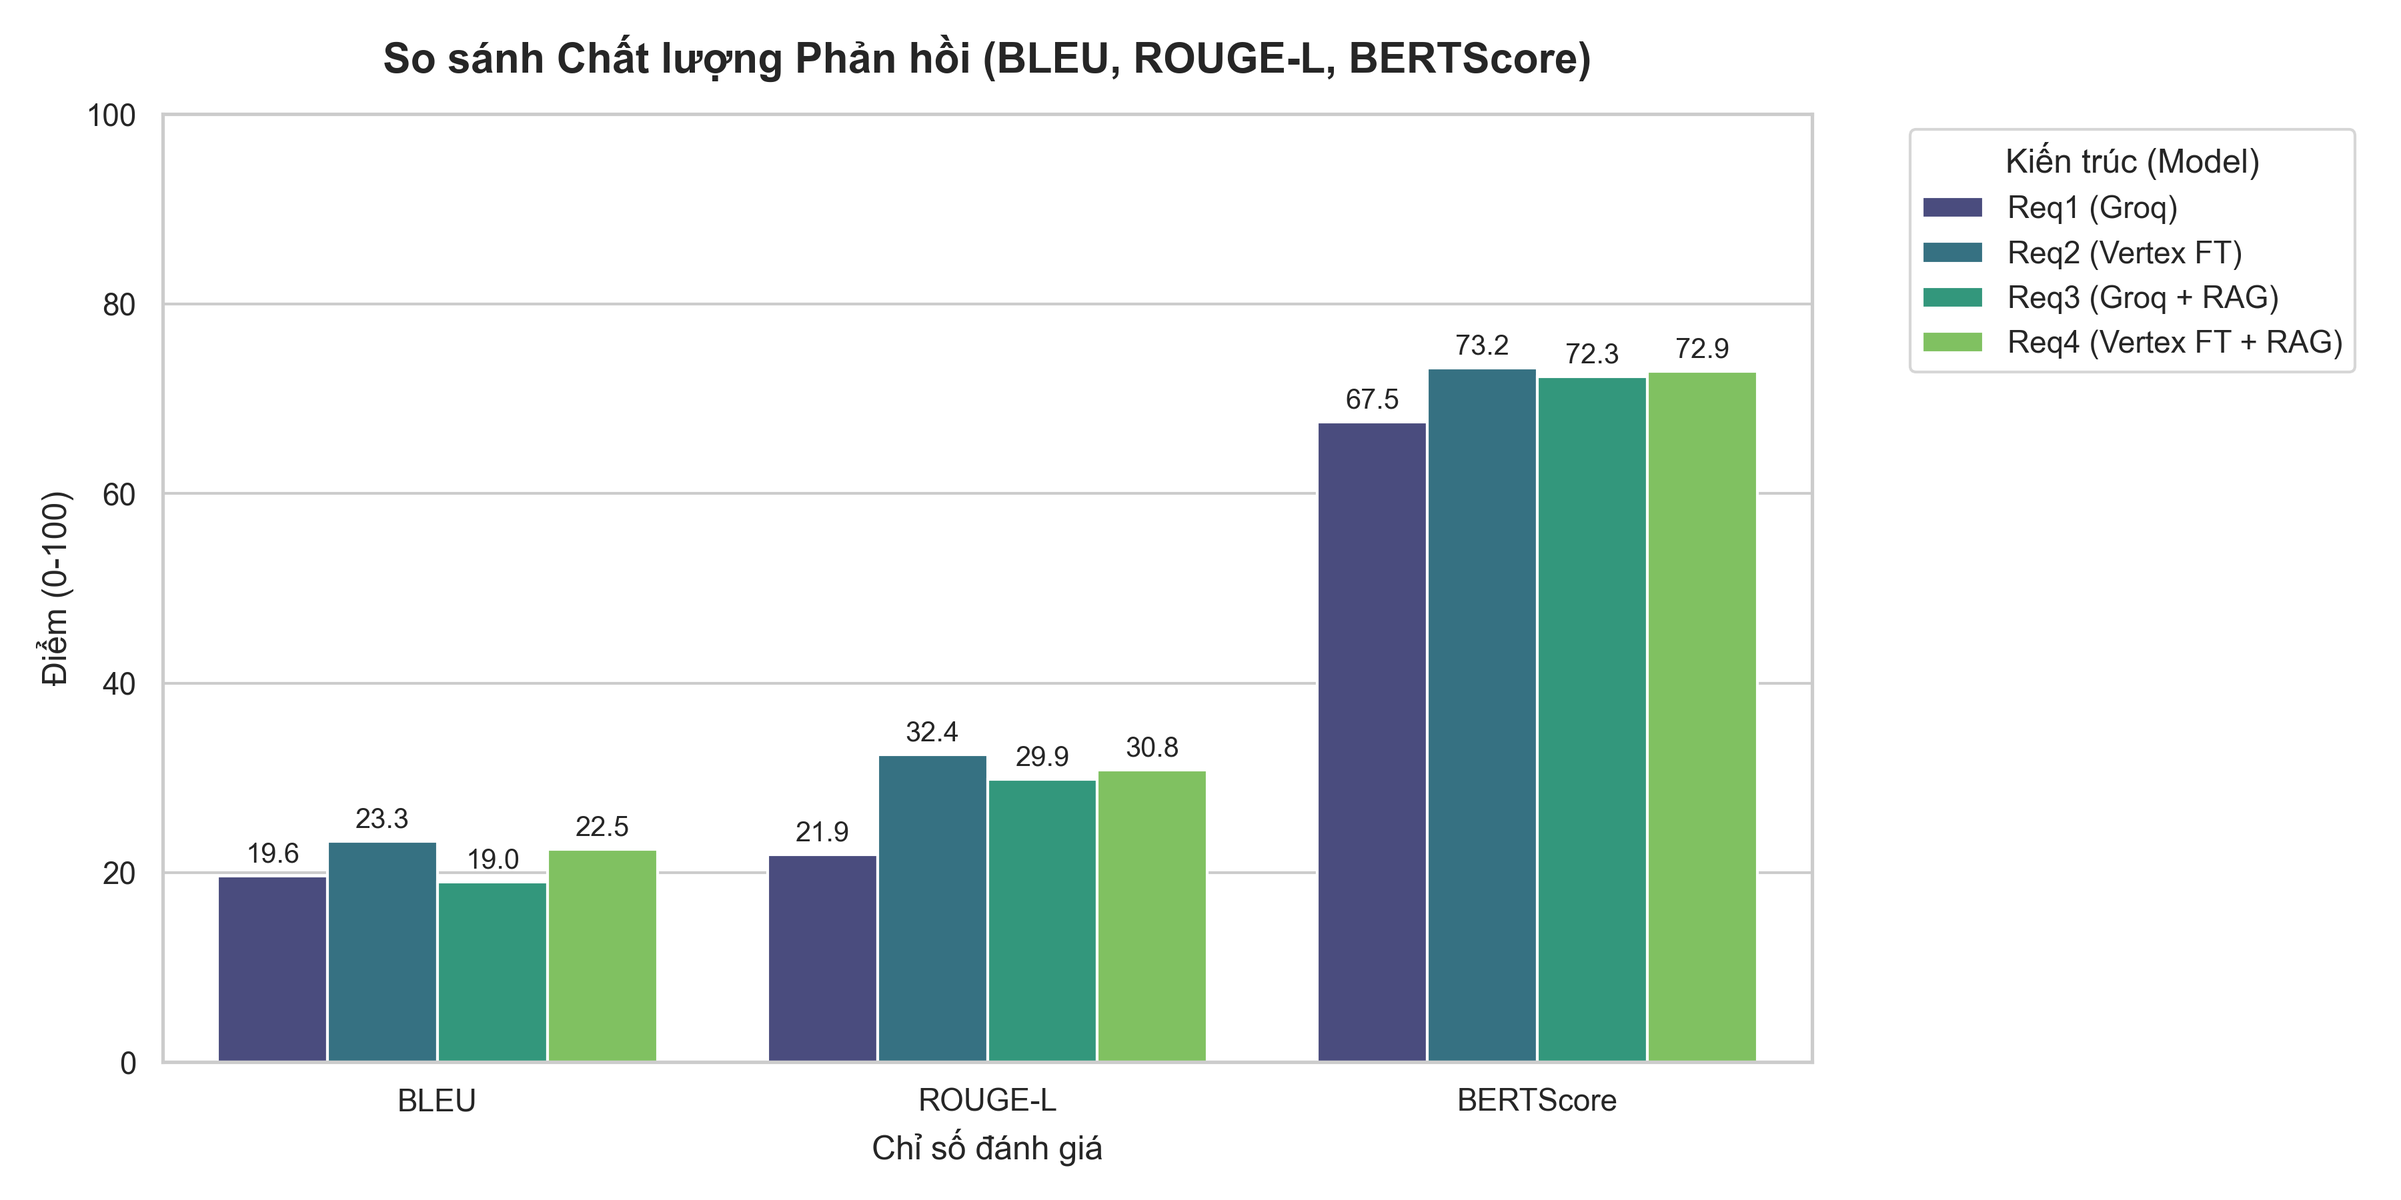
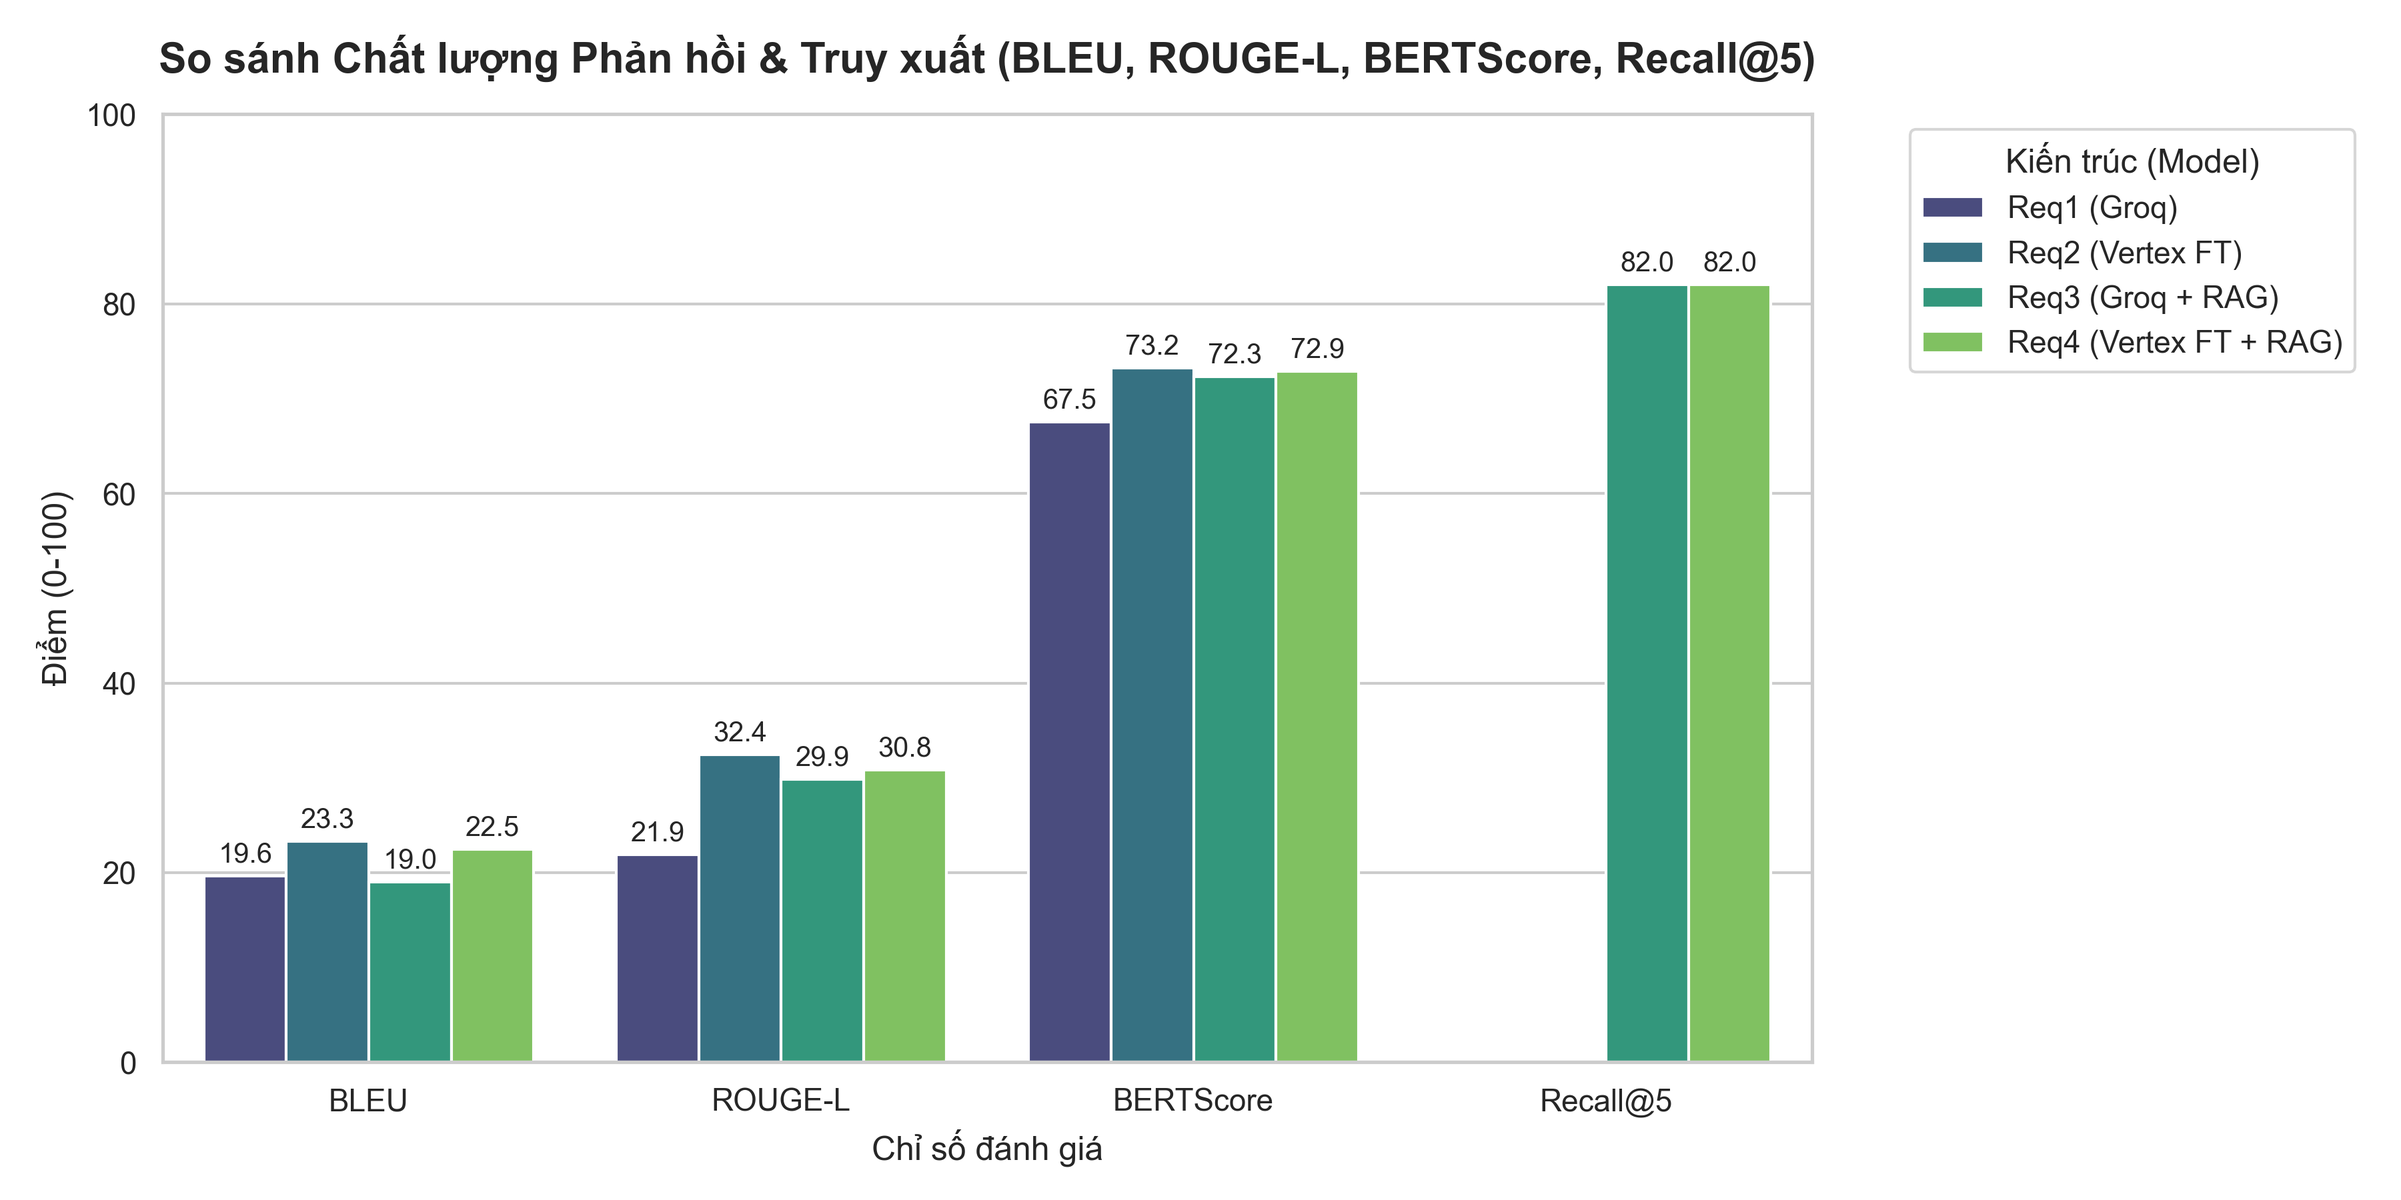
update readme and figure

Changed region(s): [[0.0622, 0.2178, 0.7467, 0.9333], [0.0622, 0.0311, 0.7778, 0.0622]]

diff --git a/evaluation/plot_results.py b/evaluation/plot_results.py
@@ -29,24 +29,25 @@ def plot_results(csv_path=None):
     sns.set_theme(style="whitegrid")
 
     # ==========================================
-    # 1. Biểu đồ chất lượng ngôn ngữ (BLEU, ROUGE, BERTScore)
+    # 1. Biểu đồ chất lượng ngôn ngữ và truy xuất (BLEU, ROUGE, BERTScore, Recall@5)
     # ==========================================
-    metrics = ['BLEU', 'ROUGE-L', 'BERTScore']
+    metrics = ['BLEU', 'ROUGE-L', 'BERTScore', 'Recall@5']
     df_metrics = df.melt(id_vars='Architecture', value_vars=metrics, var_name='Metric', value_name='Score')
     # Chuyển đổi sang số, những chữ 'N/A' hoặc 'None' sẽ thành NaN
     df_metrics['Score'] = pd.to_numeric(df_metrics['Score'], errors='coerce')
 
     plt.figure(figsize=(12, 6))
     ax = sns.barplot(data=df_metrics, x='Metric', y='Score', hue='Architecture', palette='viridis')
-    plt.title('So sánh Chất lượng Phản hồi (BLEU, ROUGE-L, BERTScore)', fontsize=15, pad=15, fontweight='bold')
+    plt.title('So sánh Chất lượng Phản hồi & Truy xuất (BLEU, ROUGE-L, BERTScore, Recall@5)', fontsize=15, pad=15, fontweight='bold')
     plt.ylim(0, max(df_metrics['Score'].max() + 10, 100)) # Mở rộng trục Y
     plt.ylabel('Điểm (0-100)', fontsize=12)
     plt.xlabel('Chỉ số đánh giá', fontsize=12)
     plt.legend(title='Kiến trúc (Model)', bbox_to_anchor=(1.05, 1), loc='upper left')
     
-    # Hiển thị số liệu trực tiếp trên từng cột bar
+    # Hiển thị số liệu trực tiếp trên từng cột bar, bỏ qua NaN (ví dụ: mô hình không có RAG)
     for container in ax.containers:
-        ax.bar_label(container, fmt='%.1f', padding=3, fontsize=10)
+        labels = [f"{v.get_height():.1f}" if pd.notna(v.get_height()) and v.get_height() > 0 else "" for v in container]
+        ax.bar_label(container, labels=labels, padding=3, fontsize=10)
 
     plt.tight_layout()
     out_path1 = "evaluation/results/plot_quality.png"

diff --git a/README.md b/README.md
@@ -3,9 +3,10 @@
   
 # 🧠 EmpathAI
 
-### Customer Service AI: RAG + Fine-Tuning + Emotion Intelligence
+### Customer Service AI: Multi-Agent RAG + Fine-Tuning + Emotion Intelligence
   
   [![Python](https://img.shields.io/badge/Python-3.9+-3776AB?style=for-the-badge&logo=python&logoColor=white)](https://www.python.org/)
+  [![Rust](https://img.shields.io/badge/Rust-Actix--Web-000000?style=for-the-badge&logo=rust&logoColor=white)](https://www.rust-lang.org/)
   [![Docker](https://img.shields.io/badge/Docker-Enabled-2496ED?style=for-the-badge&logo=docker&logoColor=white)](https://www.docker.com/)
   [![Status](https://img.shields.io/badge/Status-Production--Ready-success?style=for-the-badge)](https://github.com/)
 
@@ -16,176 +17,191 @@
 
 ## 📖 Tổng quan
 
-Dự án là sự kết hợp giữa **Agentic RAG (LangGraph)**, **Phân tích Cảm xúc (Sentiment Analysis)**, và **Supervised Fine-Tuning** trên **Vertex AI / HuggingFace**. Chúng tôi biến một mô hình ngôn ngữ thành một trợ lý CSKH tận tâm, biết lắng nghe và phản hồi bằng ngôn từ xoa dịu.
+Dự án là sự kết hợp giữa **Multi-Agent RAG (LangGraph)**, **Phân tích Cảm xúc (Sentiment Analysis)**, và **Supervised Fine-Tuning** (Vertex AI). Hệ thống không chỉ là một RAG Chatbot thông thường mà là một mạng lưới các Agents tự động phối hợp, đánh giá và sửa lỗi lẫn nhau.
 
-### 🔄 Luồng xử lý chính (Yêu cầu 4)
+### 🔄 Kiến trúc Hệ thống (System Architecture)
 
 ```mermaid
 graph TD
-    A[Khách hàng khiếu nại] --> B[LangGraph AI Worker]
+    User((Khách hàng)) <-->|WebSocket| Gateway[Rust Gateway<br/>Actix-web]
+    Gateway <-->|Produce/Consume| Kafka[(Apache Kafka / Redpanda)]
+    Kafka <-->|Consume/Produce| PythonWorker[Python AI Worker<br/>LangGraph]
     
-    subgraph "AI Core Pipeline (Fine-tuned LLM + RAG)"
-        B --> C[Sentiment Analysis]
-        C --> D[Hybrid Search: Qdrant]
-        D --> E{Grade Docs}
-        E -->|Bad| F[Rewrite Query]
-        F --> D
-        E -->|Good| G[Empathy Writer: Fine-tuned Llama-3.1-8B]
-        G --> H[Empathy Reviewer]
+    subgraph "LangGraph Orchestration (Multi-Agent)"
+        Router[Router Agent]
+        Sentiment[Sentiment Analyzer]
+        Retrieve[Hybrid Search<br/>Qdrant]
+        Grader[Grader Agent]
+        Rewriter[Rewriter Agent]
+        Writer[Empathy Writer<br/>Vertex AI / Groq]
+        Reviewer[Reviewer Agent]
+        
+        Router -->|Casual| Writer
+        Router -->|Inquiry| Retrieve
+        Router -->|Complaint| Sentiment --> Retrieve
+        
+        Retrieve --> Grader
+        Grader -->|Good| Writer
+        Grader -->|Bad| Rewriter --> Retrieve
+        
+        Writer --> Reviewer
+        Reviewer -->|Pass| Output[Streaming Output]
+        Reviewer -->|Fail| Writer
     end
     
-    H --> I[Streaming Response]
+    PythonWorker --> Router
+    Output --> Kafka
+    
+    Database[(SQLite<br/>Chat History)] -.-> Gateway
+    Cache[(Upstash Redis<br/>Response Cache)] -.-> PythonWorker
 ```
 
 ---
 
-## 🏗 Kiến trúc & Công nghệ
+## 🏗 Công nghệ cốt lõi (Tech Stack)
 
 | Thành phần | Công nghệ | Vai trò |
 |:--- |:--- |:--- |
-| **Agentic RAG** | **LangGraph / Python** | Điều phối workflow phức tạp và Self-Reflective RAG. |
-| **LLM Backends** | **Vertex AI Custom Endpoint**, **Groq** | Fine-tuned Llama-3.1-8B và fallback base model. |
-| **Vector DB** | **Qdrant** | Hybrid Search (Dense + Sparse) với RRF fusion. |
-| **Reranker** | **BGE-Reranker-v2-M3** | Cross-encoder reranking để tăng độ chính xác. |
-| **Observability** | **Langfuse** | Tracing, giám sát và đánh giá chất lượng hội thoại. |
-| **Infrastructure** | **Docker** | Dễ dàng triển khai Qdrant và các dịch vụ phụ trợ. |
+| **I/O Gateway** | **Rust (Actix-web) + Tokio** | Xử lý WebSocket tốc độ cao, quản lý kết nối, lưu lịch sử chat (SQLite). |
+| **Message Broker**| **Redpanda (Kafka)** | Điều tiết lưu lượng, chống quá tải (backpressure) giữa I/O và AI inference. |
+| **Orchestration** | **LangGraph / Python** | Điều phối workflow phức tạp và Self-Reflective RAG qua các Agent chuyên biệt. |
+| **LLM Backends** | **Vertex AI (Fine-tuned)** & **Groq** | Dual backend: Vertex AI (chính), Groq (phụ trợ cho Reviewer, Rewriter). |
+| **Vector DB** | **Qdrant** | Hybrid Search (Dense + Sparse) kết hợp Reciprocal Rank Fusion (RRF). |
+| **Reranker** | **bge-reranker-v2-m3** | Cross-encoder reranking để tăng độ chính xác của tài liệu thu hồi. |
+| **Cache Layer** | **Upstash Redis** | Cache câu trả lời RAG để bypass LangGraph, giảm độ trễ (<50ms). |
+| **Observability** | **Langfuse** | Tracing, giám sát token và thời gian phản hồi của từng bước (node). |
 
 ---
 
 ## ✨ Điểm nổi bật
 
-- 🎭 **Empathy-First Learning**: Fine-tuned trên dữ liệu CSKH MyKingdom giúp AI phân biệt văn phong thấu cảm và văn mẫu máy móc.
-- 🔍 **Hybrid & Self-Reflective RAG**: Kết hợp Dense + Sparse search trên Qdrant, tự động sửa truy vấn (Rewriter) nếu thông tin không đạt yêu cầu.
-- 🛡 **Empathy Quality Checker**: Agent độc lập kiểm duyệt lần cuối để đảm bảo AI không dùng từ ngữ "robot".
-- 📦 **4 Yêu cầu rõ ràng**: Cung cấp 4 kiến trúc khác nhau để so sánh hiệu quả: LLM only, Fine-tuned only, RAG only, và Fine-tuned + RAG.
+- 🎭 **Empathy-First Learning**: Mô hình Llama-3.1-8B được fine-tune trên dữ liệu CSKH để phản hồi tự nhiên, thấu cảm, tránh văn phong robot.
+- 🤖 **Multi-Agent Orchestration**: Hệ thống phân luồng (Router), tự đánh giá tài liệu (Grader), và kiểm duyệt chất lượng đầu ra (Reviewer) hoàn toàn tự động.
+- 🔄 **Self-Reflective RAG**: Tự động viết lại câu truy vấn (Rewriter) và tìm kiếm lại nếu thông tin ban đầu không đạt yêu cầu.
+- ⚡ **High Performance Backend**: Gateway viết bằng Rust Actix-web + Kafka giúp stream token mượt mà hàng ngàn kết nối cùng lúc mà không sập hệ thống.
+- 📦 **So sánh 4 Kiến trúc**: Demo cung cấp 4 chế độ để chứng minh hiệu quả: (1) LLM base, (2) Fine-tuned LLM, (3) RAG + base LLM, (4) RAG + Fine-tuned LLM.
 
 ---
 
-## 🚀 Hướng dẫn cài đặt
+## ⚙ Cấu hình Môi trường (.env)
 
-### 1. Chuẩn bị Hạ tầng
+Tạo file `.env` ở thư mục gốc của dự án và cấu hình theo mẫu sau:
 
-```bash
-# Khởi động Qdrant (vector database)
-docker-compose up -d qdrant
+```env
+# 1. Groq API (Fallback & Fast LLM cho Reviewer/Rewriter)
+GROQ_API_KEY=your_groq_api_key_here
+GROQ_API_KEYS=key1,key2,key3 # Hỗ trợ round-robin nhiều key
 
-# Cài đặt thư viện Python
-cd python && pip install -r requirements.txt
-```
-
-### 2. Cấu hình Environment
-
-Sao chép và chỉnh sửa file `.env`:
-
-```bash
-# Vertex AI (fine-tuned model)
-VERTEX_PROJECT_ID=your-project-id
+# 2. Vertex AI (Fine-tuned LLM)
+VERTEX_PROJECT_ID=your-gcp-project-id
 VERTEX_REGION=asia-southeast1
-VERTEX_ENDPOINT_ID=your-endpoint-id
+VERTEX_ENDPOINT_ID=your-vertex-endpoint-id
 
-# Groq (fallback)
-GROQ_API_KEY=your-groq-key
+# 3. Langfuse Observability (Tuỳ chọn)
+LANGFUSE_SECRET_KEY=sk-lf-xxx
+LANGFUSE_PUBLIC_KEY=pk-lf-xxx
+LANGFUSE_HOST=https://cloud.langfuse.com
 
-# Chế độ backend: "vertex" hoặc "groq"
-EMPATHY_MODE=vertex
+# 4. Redis Cache (Tuỳ chọn - Upstash)
+UPSTASH_REDIS_REST_URL=https://xxx.upstash.io
+UPSTASH_REDIS_REST_TOKEN=your_upstash_token
+
+# 5. Cấu hình Model & Hệ thống
+EMPATHY_MODE=vertex # "vertex" hoặc "groq"
+EMBEDDING_MODEL=BAAI/bge-m3
+RERANKER_MODEL=BAAI/bge-reranker-v2-m3
 ```
 
-### 3. Chạy để Demo (4 Model + Giao diện So sánh)
+---
 
-Khởi động toàn bộ hệ thống để demo so sánh 4 kiến trúc trên giao diện web:
+## 🚀 Hướng dẫn Chạy (Deployment)
 
-**Bước 1 — Hạ tầng (Qdrant + Kafka):**
+### Bước 1: Khởi động Hạ tầng (Qdrant & Redpanda)
 
 ```bash
 docker-compose up -d qdrant redpanda
 ```
 
-**Bước 2 — Backend 1: EmpathAI Full (Rust + LangGraph):**
+### Bước 2: Chạy Python AI Worker (Background)
 
+Bật terminal 1:
 ```bash
-cd python/kafka_workers
+cd python
+pip install -r requirements.txt
+cd kafka_workers
 python query_worker.py
+```
 
-# New terminal
+### Bước 3: Chạy Rust Gateway (API & WebSocket)
+
+Bật terminal 2:
+```bash
 cd rust_backend
 cargo run
-# WebSocket: ws://localhost:8083/ws/chat
 ```
+*Backend sẽ khởi chạy ở `http://localhost:8083` và WebSocket ở `ws://localhost:8083/ws/chat`*
 
-**Bước 3 — Backend 2: LLM Only (FastAPI):**
+### Bước 4: Chạy các Backend Demo Phụ (Để dùng tính năng So sánh 4 Model)
 
+Bật terminal 3 (Chạy Req 1, 2, 3):
 ```bash
-cd req1_llm_only
-uvicorn server:app --host 0.0.0.0 --port 8001
-# API: http://localhost:8001/chat
+docker-compose up -d req1_llm_only req2_llm_finetune req3_llm_rag
 ```
-
-**Bước 4 — Backend 3: LLM Fine-tune (FastAPI):**
-
-```bash
-cd req2_llm_finetune
-uvicorn server:app --host 0.0.0.0 --port 8002
-# API: http://localhost:8002/chat
-```
-
-**Bước 5 — Backend 4: LLM + RAG (FastAPI):**
-
-```bash
-cd req3_llm_rag
-uvicorn server:app --host 0.0.0.0 --port 8003
-# API: http://localhost:8003/chat
-```
-
-**Bước 6 — Mở giao diện:**
-
-```
-http://localhost:8083
-```
-
-**Chế độ So sánh 4 Model:**
-
-- Chọn **"So sánh cả 4"** trong dropdown bên trái thanh input
-- Nhập câu hỏi → giao diện hiển thị **grid 2×2** so sánh kết quả từng model song song
-- Mỗi panel hiển thị: tên model, thời gian phản hồi (ms), và nội dung trả lời
-
-**Chế độ Chat đơn:**
-
-- Chọn 1 model trong dropdown → chat bình thường với model đó
-- Badge trên tin nhắn AI hiển thị tên model đang dùng
-
-> 💡 *Có thể chạy tất cả backend Python bằng Docker Compose:* `docker-compose up -d req1_llm_only req2_llm_finetune req3_llm_rag`
 
 ---
 
-## 📈 Giám sát (Monitoring)
+## 💻 Tính năng Demo Web
 
-Hệ thống tích hợp **Langfuse** để theo dõi từng bước suy nghĩ của AI:
+Truy cập giao diện chính tại: **`http://localhost:8083`**
 
-- Xem chi tiết Retrieval docs.
-- Theo dõi độ trễ (Latency) và chi phí (Tokens).
-- Đánh giá Feedback của khách hàng trên Dashboard.
+### 1. Chế độ Chat đơn (Single Chat)
+- Chọn model muốn chat (VD: "Req 4: EmpathAI (Fine-tuned + RAG)").
+- Trải nghiệm tốc độ trả lời **streaming mượt mà** qua WebSocket.
+- Hệ thống hỗ trợ **lưu lịch sử hội thoại** (được quản lý bởi Rust backend qua SQLite).
 
-## 📁 Cấu trúc thư mục
+### 2. Chế độ So sánh 4 Model (Arena Mode)
+- Ở thanh chọn góc trái, chọn **"So sánh cả 4"**.
+- Nhập một câu khiếu nại (VD: "Hàng giao bị vỡ, làm ăn kiểu gì vậy!").
+- Màn hình sẽ chia làm **Grid 2x2**, cho phép bạn xem song song tốc độ xử lý (ms) và nội dung phản hồi của:
+  - **Req 1**: Base LLM (Không RAG)
+  - **Req 2**: Fine-tuned LLM (Không RAG)
+  - **Req 3**: Base LLM + RAG
+  - **Req 4**: Fine-tuned LLM + RAG (Kiến trúc cuối cùng)
 
-```
+---
+
+## 📁 Cấu trúc Thư mục (Directory Structure)
+
+```text
 vibe coding/
-├── frontend/               # Giao diện web (HTML/JS/Tailwind)
-├── rust_backend/           # Gateway: WebSocket + REST API + Kafka
-├── python/                 # Yêu cầu 4: EmpathAI Full (LangGraph + Agentic RAG)
-│   ├── agents/             # LangGraph pipeline
-│   ├── retrieval/          # Hybrid Search + Rerank
-│   └── data_processing/    # Indexing
-├── req1_llm_only/          # Yêu cầu 1: LLM only (FastAPI server.py)
-├── req2_llm_finetune/      # Yêu cầu 2: Fine-tuned LLM (FastAPI server.py)
-├── req3_llm_rag/           # Yêu cầu 3: LLM + RAG (FastAPI server.py)
-├── data/
-│   └── mykingdom_policies.json
-├── docker-compose.yml
-└── .env
+├── frontend/               # Giao diện Web (HTML, JS thuần, TailwindCSS)
+├── rust_backend/           # Actix-web Gateway: Xử lý WebSocket, REST API, SQLite
+├── python/                 # Core AI (LangGraph, Kafka Worker, Vector Search)
+│   ├── agents/             # Định nghĩa các node trong LangGraph (Router, Grader, v.v.)
+│   ├── kafka_workers/      # Consumer lắng nghe tin nhắn từ Rust
+│   ├── retrieval/          # Hybrid Search (Qdrant), Reranker, Redis Cache
+│   └── data_processing/    # Xử lý văn bản, tạo index embedding
+├── req1_llm_only/          # (Demo) FastAPI server chạy base LLM
+├── req2_llm_finetune/      # (Demo) FastAPI server chạy fine-tuned LLM
+├── req3_llm_rag/           # (Demo) FastAPI server chạy base LLM + RAG
+├── evaluation/             # Script Python để benchmark 4 cấu trúc
+├── data/                   # Dữ liệu chính sách CSKH (JSON, Text)
+├── docker-compose.yml      # File deploy Qdrant, Redpanda và các req1-2-3
+└── .env                    # File biến môi trường
 ```
+
+---
+
+## 📈 Giám sát (Monitoring) với Langfuse
+
+Mọi truy vấn đi qua hệ thống (Req 4) đều được tự động log lên **Langfuse Dashboard** (nếu đã cấu hình `.env`). Bạn có thể theo dõi:
+- **Traces**: Xem toàn bộ workflow của LangGraph từ đầu đến cuối.
+- **Latency**: Thời gian xử lý của từng Agent (Router tốn bao lâu, LLM inference mất bao nhiêu ms).
+- **Token Usage**: Chi phí token của Vertex AI và Groq.
+- **Generation**: Xem rõ Prompt hệ thống sinh ra và Response trả về.
 
 ---
 
 <div align="center">
-  <sub>Built with ❤ by Hoàng Xuân Thành. Powered by Python, Vertex AI & Llama 3.1.</sub>
+  <sub>Built with ❤ by Hoàng Xuân Thành. Powered by Rust, Python, Vertex AI & Llama 3.1.</sub>
 </div>
